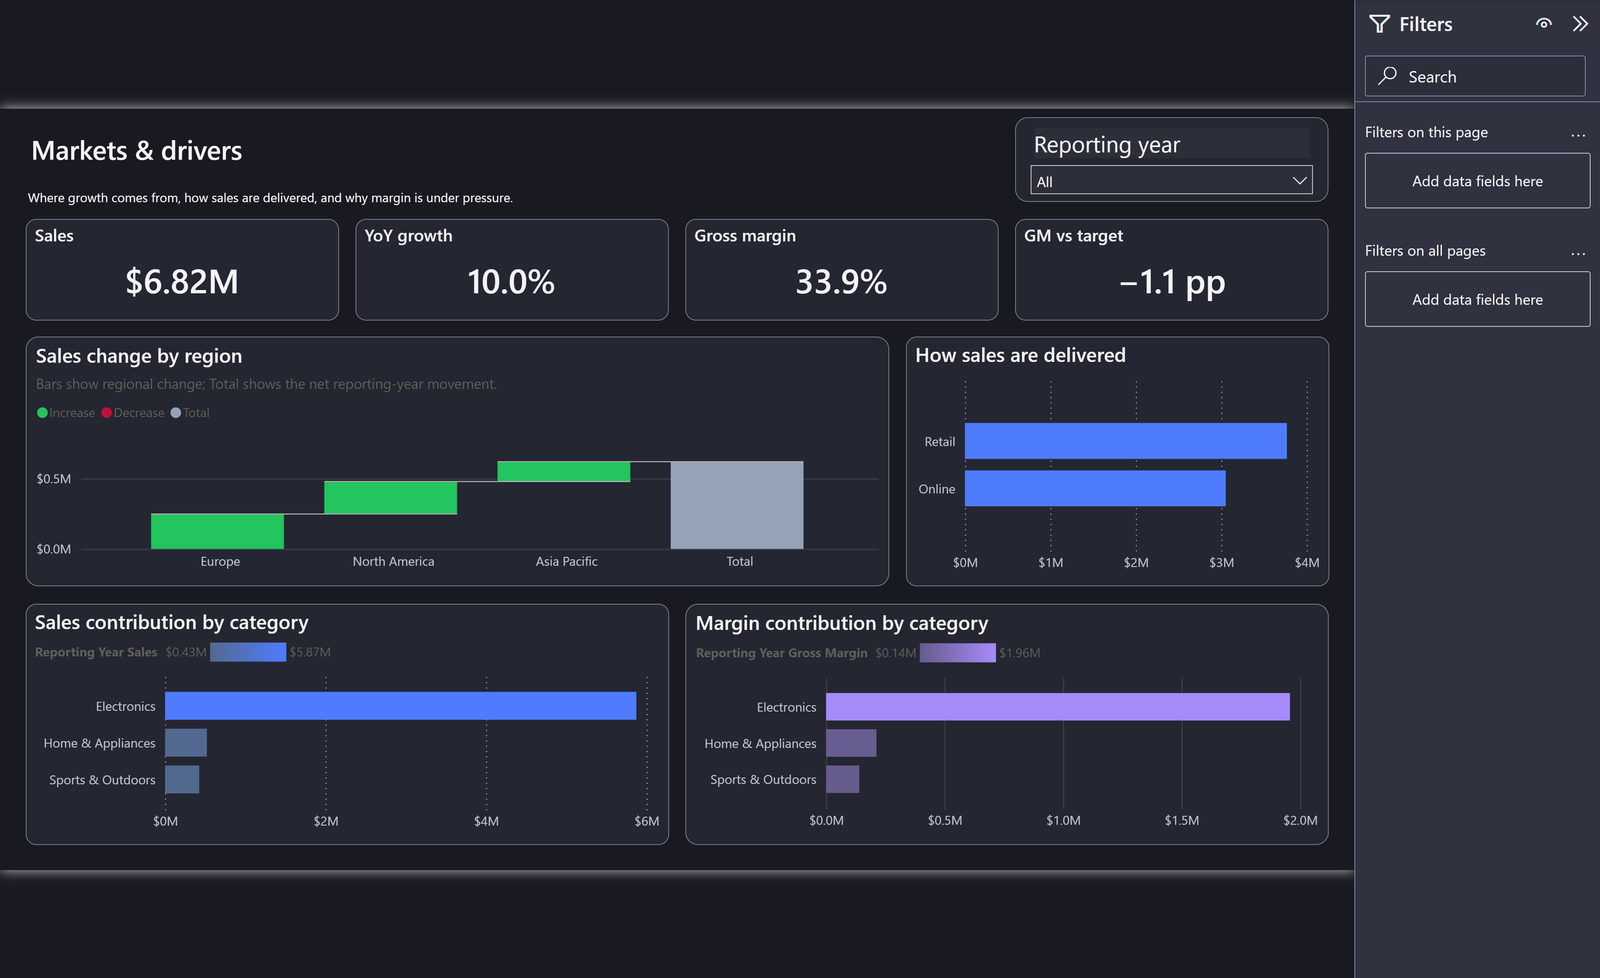
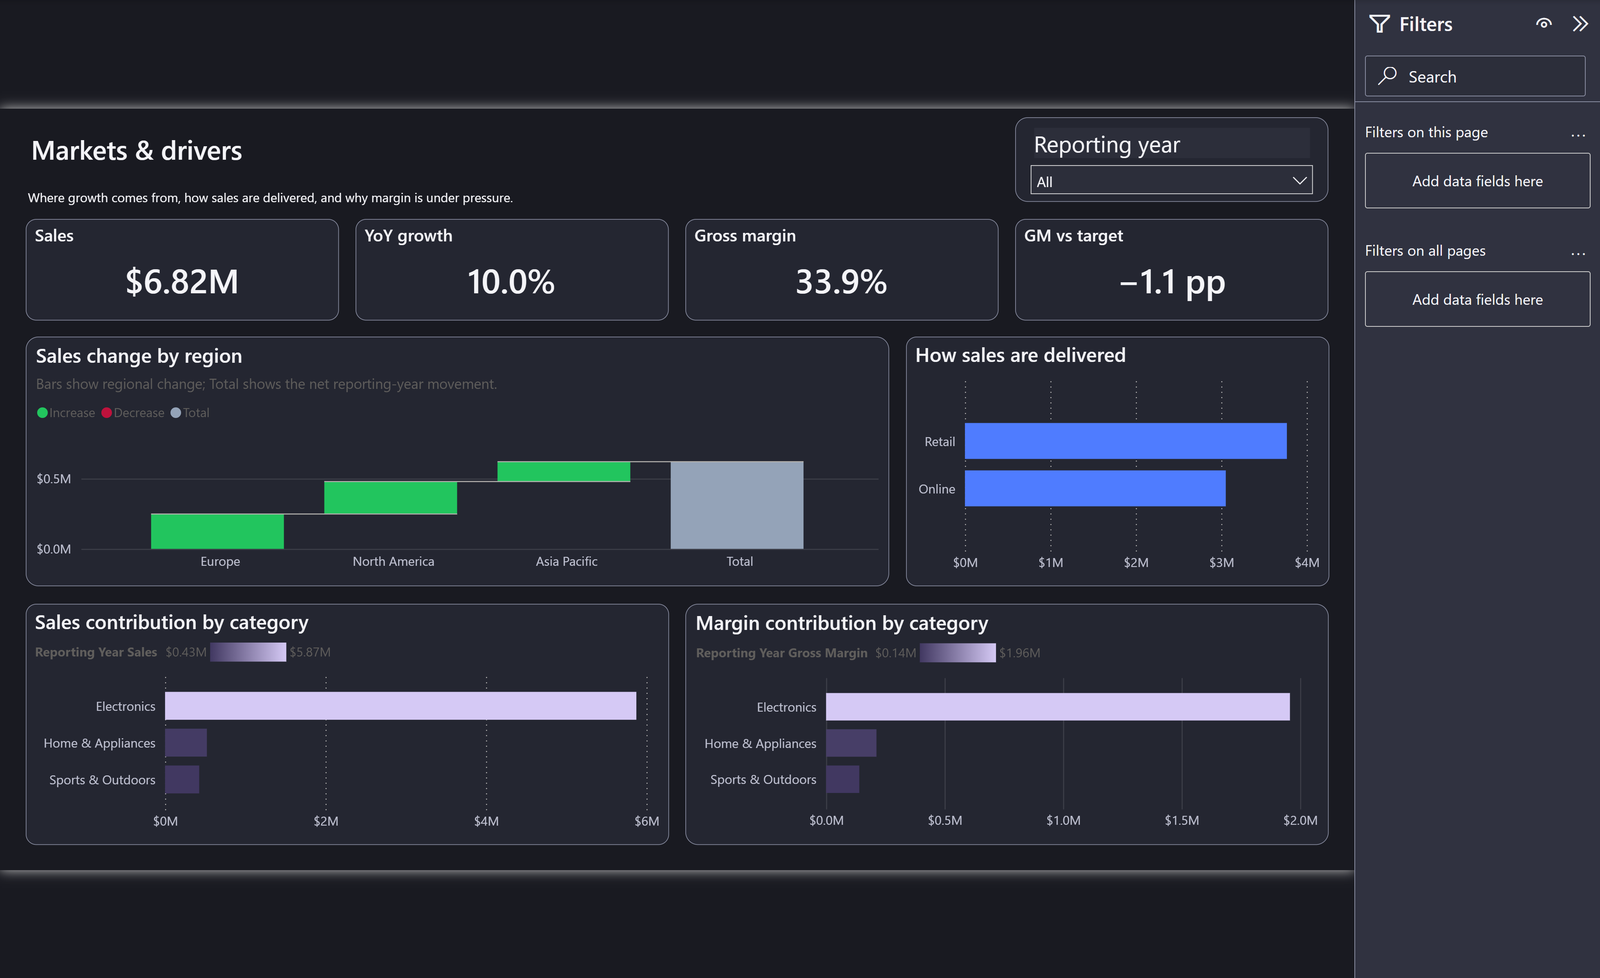
docs(powerbi): refresh all 25 native previews with themed chart series (#80)

diff --git a/docs/THEME_GALLERY.md b/docs/THEME_GALLERY.md
@@ -126,10 +126,9 @@ measure, numeric thresholds, selectors and conditional structure.
 Waterfall increase/decrease/total and true business-rule conditional
 colors are intentionally protected from automatic recoloring.
 
-**Version boundary:** the public screenshots currently have candidate source
-revision 1a5f4ca. The enhanced chart-color changes were added in a later
-code revision and must be **re-captured from a validated new candidate**
-before claiming that their new pixels are already pictured below.
+The public screenshot previews **were re-captured after the chart-color
+implementation** on exact candidate revision 92e40b1, so bars, maps and
+numeric gradients visibly follow their chosen semantic palette.
 
 ## Filter-pane, slicer and dropdown behavior
 
@@ -150,8 +149,8 @@ These are genuine synthetic-demo presentation previews, not raw G2 runtime
 evidence. Each page was captured via the official Power BI Desktop authoring
 interface after Microsoft Modeling MCP Full processing. Every palette is
 sourced from the identical five-page Contoso report and Git revision
-[1a5f4ca](https://github.com/analienx/visual-quality-system/commit/1a5f4cac96b82820f1dd2670eae00a748a921a6d),
-and passed [official Microsoft authoring validation](https://github.com/analienx/visual-quality-system/actions/runs/39977461272).
+[92e40b1](https://github.com/analienx/visual-quality-system/commit/92e40b1097bf124c64a257a4db63f1d653e03f58),
+and passed [official Microsoft authoring validation](https://github.com/analienx/visual-quality-system/actions/runs/40038410291).
 
 - [Executive Blue Light public-preview and source-capture hash manifest](images/themes/light/manifest.json)
 - [Executive Blue Dark public-preview and source-capture hash manifest](images/themes/blue-dark/manifest.json)

diff --git a/README.md b/README.md
@@ -177,8 +177,9 @@ the [interactive comparison gallery](docs/THEME_GALLERY.md).
 The VQS palette also controls categorical chart series, numeric
 bar/column/shape-map gradient stops and compatible slicer/filter-pane
 surfaces. Data-bound business thresholds and positive/negative semantics
-remain protected. The registered screenshot candidates predate the latest
-chart-gradient change and will be re-captured before final release.
+remain protected. All 25 public previews have now been re-captured from the validated
+chart-color implementation; bars, map gradients and explicit line series
+follow the chosen colorway while business conditional rules remain intact.
 
 [See all **25 five-theme native previews**](docs/THEME_GALLERY.md) ·
 [Theme CLI, safe adaptation and audit](docs/THEME_ENGINE.md)
